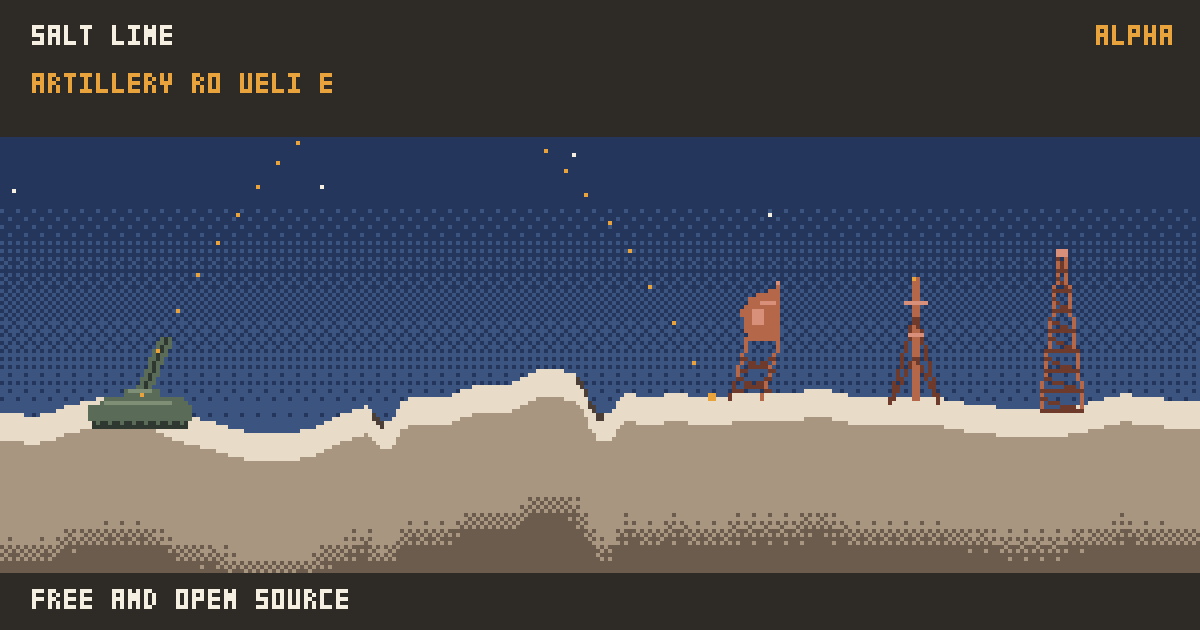
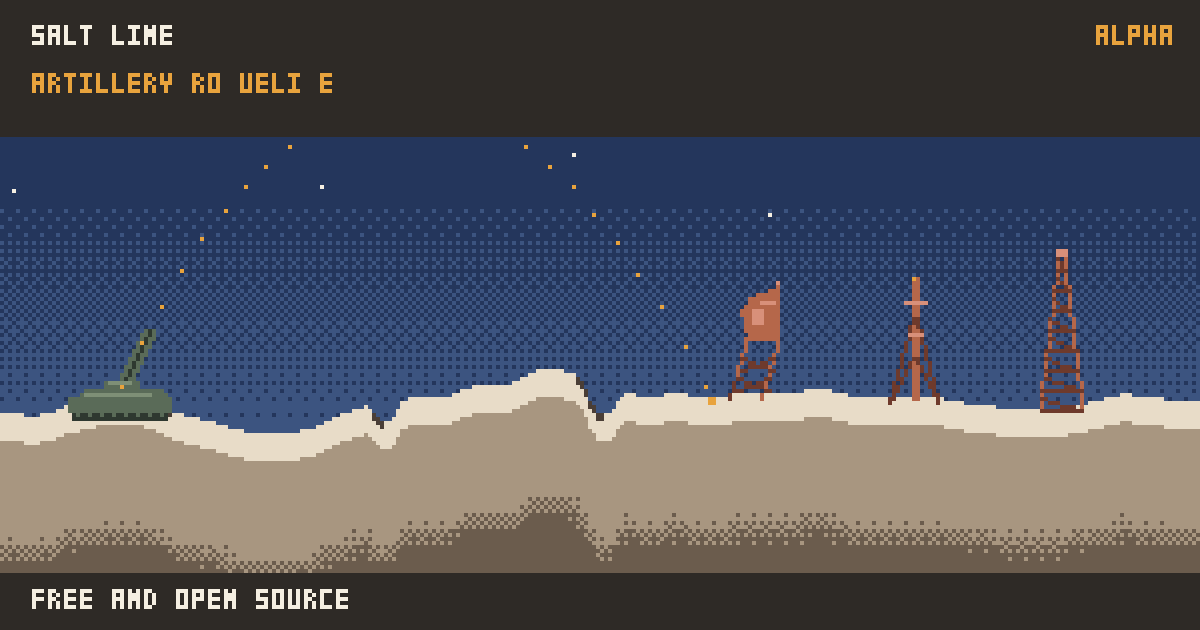
Regenerate solver-verified site media

Changed region(s): [[0.0308, 0.5127, 0.185, 0.6937]]

diff --git a/site/index.html b/site/index.html
@@ -141,11 +141,11 @@
   <figure class="shot-figure">
     <picture>
       <source media="(prefers-reduced-motion: reduce)" srcset="assets/shot_static.png">
-      <img src="assets/shot.gif" alt="Animated: a shell arcs across a dithered night sky, drifting with the wind, and brings a leaning water tower down. A crater stays in the sand." class="px" width="640" height="360" loading="lazy">
+      <img src="assets/shot.gif" alt="A shell impact brings a leaning water tower down, leaving its wreckage on the sand." class="px" width="640" height="360" loading="lazy">
     </picture>
     <figcaption>One shot, sampled off a real fixed-step integration at
-      <code>dt = 1/120</code> with wind at +3.2. The tower comes down; the crater
-      stays for the rest of the run.</figcaption>
+      <code>dt = 1/120</code> with wind at +3.2. The tower comes down, and its
+      wreckage stays for the rest of the run.</figcaption>
   </figure>
 
   <div class="media-grid">

diff --git a/tools/build_site.py b/tools/build_site.py
@@ -6,13 +6,14 @@ draw the game's art (`tools/gen_sprites.py`): same 16-colour palette, same
 native 320x180 grid, same rasteriser. Nothing is drawn by hand, nothing is
 anti-aliased, and the only scaling is integer NEAREST.
 
-    python3 tools/build_site.py     # needs Pillow; writes into site/assets/
+    python3 tools/build_site.py     # needs Pillow + Rust; writes into site/assets/
 
 Outputs:
     site/assets/scene_native.png      the reference scene, 1x
     site/assets/scene_4x.png          the reference scene, 4x
     site/assets/hero_wide.png         a 640x180 screen, 2x, for the hero
     site/assets/shot.gif              one shot, integrated at the sim's dt
+    site/assets/shot_static.png       reduced-motion final frame of that shot
     site/assets/sprites/*.png         native-resolution sprites
     site/assets/sprite_sheet_4x.png   contact sheet
     site/assets/palette_16.png        the palette, which is the source of truth
@@ -93,15 +94,22 @@ def stars(b, width, seed=7):
             b.set(x, y, rgba("ui_fg"))
 
 
-def compose(width=320, height=180, seed=20260907, craters=(), props=()):
+def compose(
+    width=320, height=180, seed=20260907, craters=(), props=(), terrain_heights=None
+):
     """A screen: sky, terrain, structures, the emplacement. No shell."""
     b = Buf(width, height, rgba("sky_hi"))
     sky(b, width, height)
     stars(b, width, seed)
 
-    hs = G.terrain(width, seed, amp=1.25)
-    for cx, r in craters:
-        G.crater(hs, cx, r)
+    hs = (
+        list(terrain_heights)
+        if terrain_heights is not None
+        else G.terrain(width, seed, amp=1.25)
+    )
+    if terrain_heights is None:
+        for cx, r in craters:
+            G.crater(hs, cx, r)
     ground(b, hs, width, height)
 
     for kind, x, state in props:
@@ -264,8 +272,10 @@ def hero_wide(scale=2):
 
 
 def shot_gif(scale=2, path_out=None):
-    """One shot, sampled off a real fixed-step integration, then the crater it
-    leaves. 16 colours, no dithering added by the encoder."""
+    """One solver-verified shot and its lasting damage state.
+
+    Uses 16 colours, with no dithering added by the encoder.
+    """
     width, height = 320, 180
     wind = 3.2
     target = 188.0
@@ -282,23 +292,15 @@ def shot_gif(scale=2, path_out=None):
     hud(b, width, height, "WIND +3.2", "SHELLS 28", "34")
     base = b.image(1)
 
-    # after: the same screen with the impact crater cut in, tower down
+    # after: the same screen after the sim applies the impact, tower down
     after_props = (("tower", 188, "collapsed"), ("mast", 236, None), ("derrick", 268, None))
     ab, _, atank, apivot, _ = compose(
         width,
         height,
         seed=20260907,
         props=after_props,
+        terrain_heights=after_hs,
     )
-    ground(ab, after_hs, width, height)
-    for kind, x, state in after_props:
-        if kind == "tower":
-            spr = G.water_tower(state)
-        elif kind == "derrick":
-            spr = G.derrick()
-        else:
-            spr = G.radio_mast()
-        ab.blit(spr, x, G.seat(after_hs, x, spr.w) - spr.h + 2)
     with_barrel(ab, atank, apivot, ang)
     hud(ab, width, height, "WIND +3.2", "SHELLS 27", "34")
     after = ab.image(1)

diff --git a/crates/salt-line-sim/src/bin/site_shot.rs b/crates/salt-line-sim/src/bin/site_shot.rs
@@ -11,10 +11,7 @@ use salt_line_sim::solver;
 use salt_line_sim::terrain::{Heightfield, Template};
 use salt_line_sim::EMPLACEMENT_X;
 
-fn value<T: std::str::FromStr>(
-    values: &mut impl Iterator<Item = String>,
-    name: &str,
-) -> T {
+fn value<T: std::str::FromStr>(values: &mut impl Iterator<Item = String>, name: &str) -> T {
     values
         .next()
         .unwrap_or_else(|| panic!("missing {name}"))
@@ -76,8 +73,11 @@ fn main() {
             let mut result = screen.clone();
             let report = result.apply_shot(candidate.shot, &loadout, None, true);
             let trace = report.traces.into_iter().next()?;
-            (report.collapsed.contains(&0) && trace.apex.y <= height - 22.0)
-                .then_some((candidate.shot, trace, result))
+            (report.collapsed.contains(&0) && trace.apex.y <= height - 22.0).then_some((
+                candidate.shot,
+                trace,
+                result,
+            ))
         })
         .max_by(|a, b| a.1.apex.y.total_cmp(&b.1.apex.y))
         .expect("no solver-verified shot fits inside the marketing frame");

diff --git a/README.md b/README.md
@@ -126,7 +126,7 @@ the social card with the same palette, rasteriser and native grid the game uses.
 Change a sprite and the page changes with it.
 
 ```sh
-python3 tools/build_site.py           # needs Pillow; writes into site/assets/
+python3 tools/build_site.py           # needs Pillow + Rust; writes into site/assets/
 python3 -m http.server -d site 8000   # preview at http://localhost:8000
 ```
 
